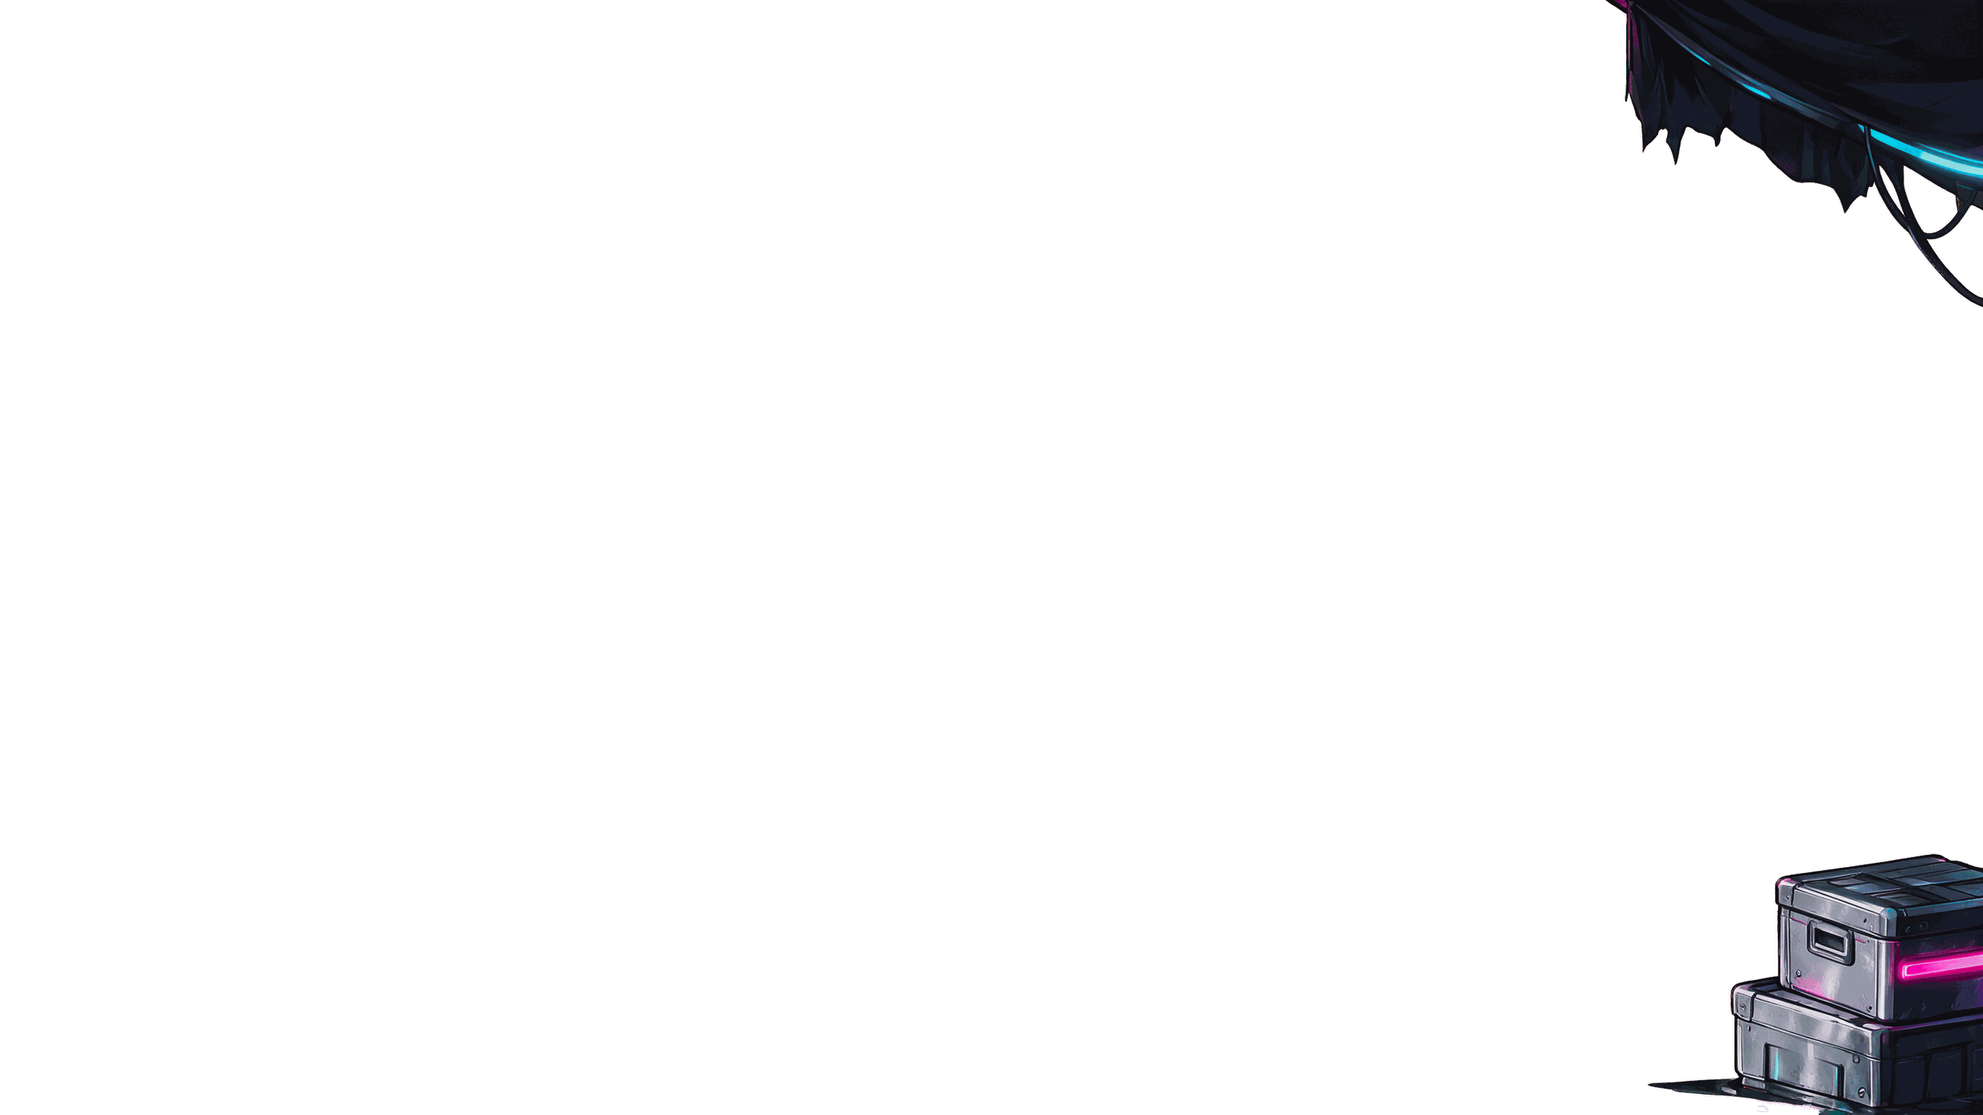
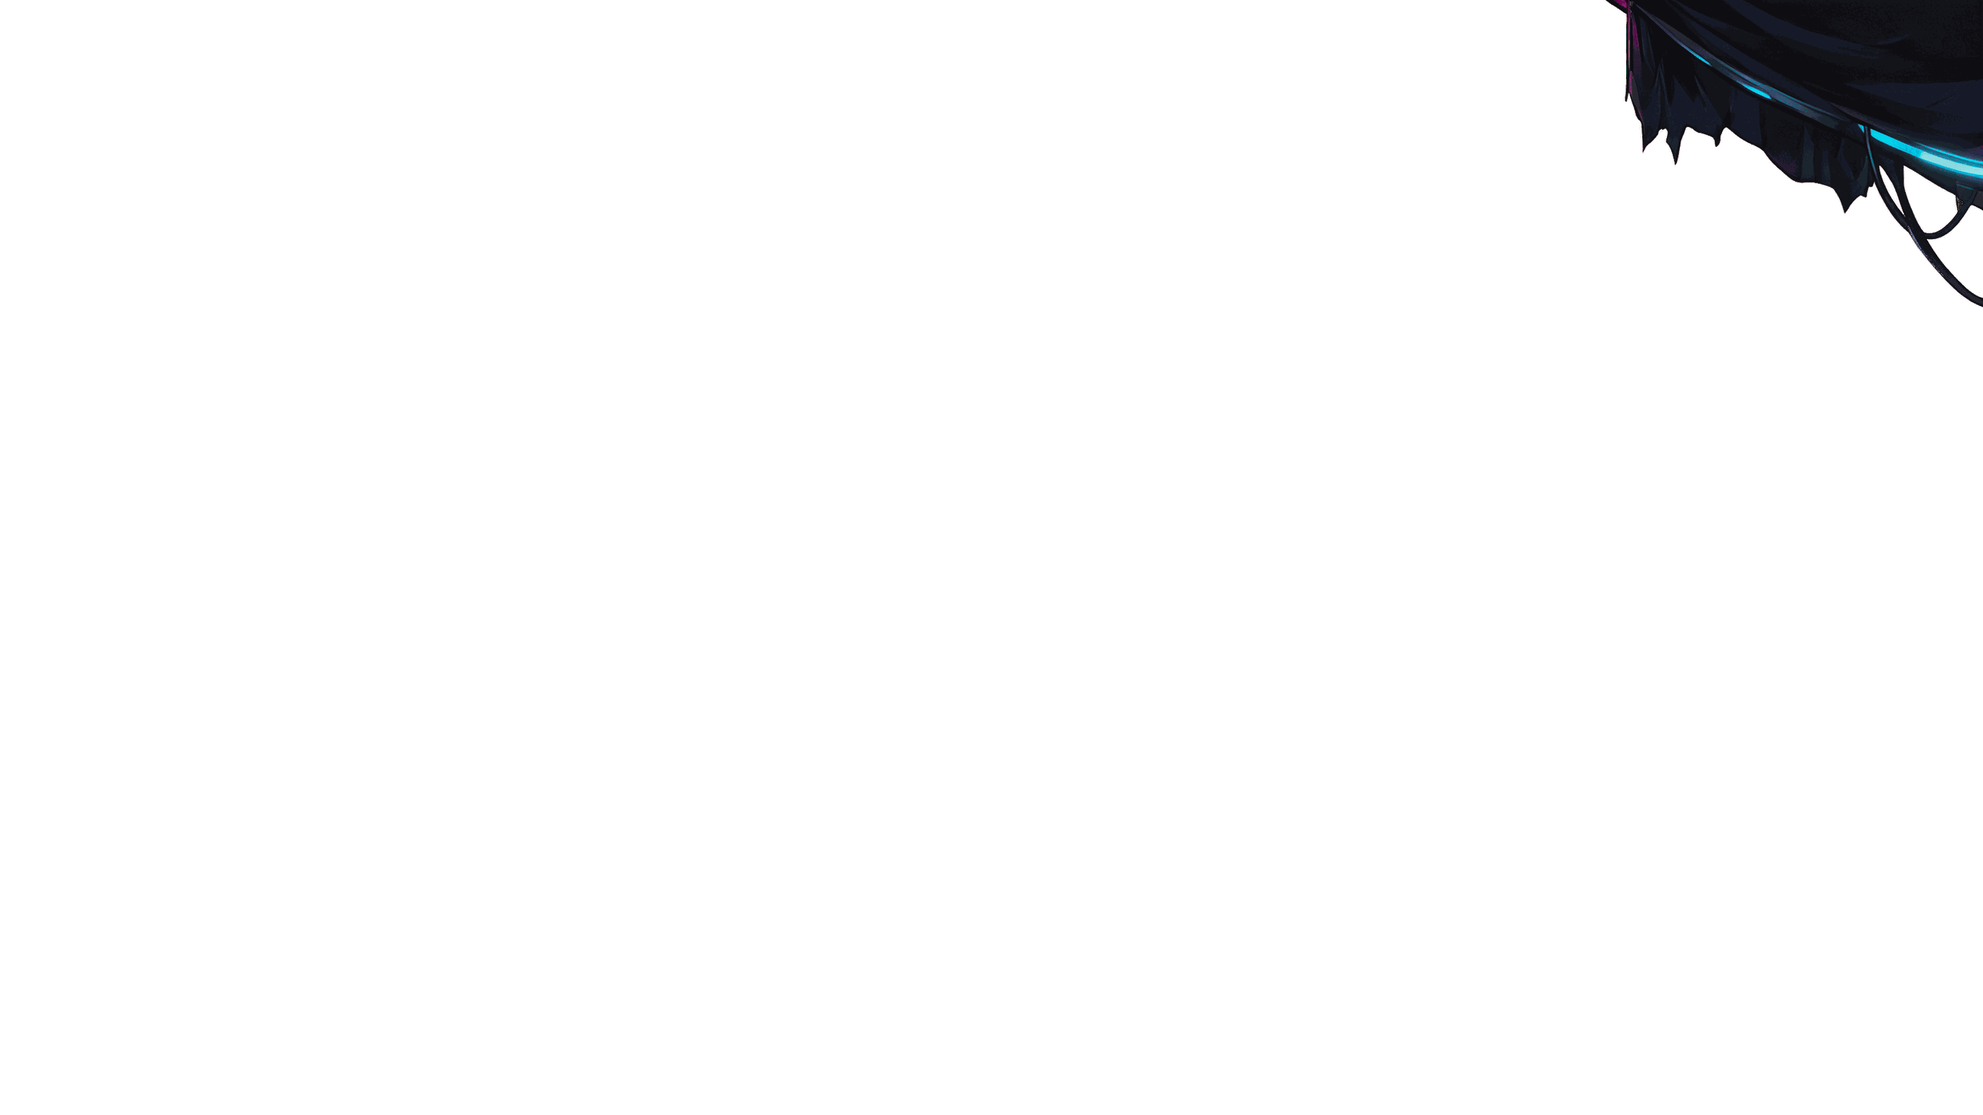
The arcade: a room off the neon street's east end
The approved painting (candidate C of four) is a new room, the arcade: a
neon hall with three game cabinets along its back wall under a blank
score board, one screen wide and built to widen east later. Its doorway,
under a joystick sign with no letters, is a detail edit of the street's
east screen where the street bends away; the east overlay's crates, which
stood in front of it, are taken out. Each file has its provenance line.

The room data has the arcade's floor, its entrance back to the street,
three cabinet spots and a cap of 40, and the street's pavement up to the
new doorway. Until a cabinet's game is live its screen is switched off
and reads "Hatching Soon", and an owl standing at it is told the same;
no game is live yet. The arcade has a mood of its own: neon, no rain.

A unit test ties the cabinets to the room, and a browser test walks in
from the street, along the cabinets and back out, on a computer and a
phone.

Claude-Session: https://claude.ai/code/session_01GwxsLoM2md4sGXGmm1SY7i

Changed region(s): [[0.8438, 0.7467, 1.0, 1.0]]

diff --git a/packages/shared/rooms/index.ts b/packages/shared/rooms/index.ts
@@ -21,6 +21,10 @@ export { STREET_DOORS, STREET_ROOM } from '../src/homes';
  * lobby's west end leads to. It is two screens wide, its painting the east screen, where the lane
  * from the lobby comes in. Six nest doors stand along it, each into one owl's nest: a room of its
  * own, made from NEST_ROOM. Neither has hiding spots.
+ *
+ * The arcade is one screen off the market street's east end, where the street bends away: a neon
+ * hall with three game cabinets along its back wall under a blank score board. It is built to
+ * widen east later, as the market was. It has no hiding spots.
  */
 export const CLOSED_SIGNS = ['Not Yet Fledged', 'Closed for Molting', 'Pardon Our Feathers', 'Hatching Soon'] as const;
 
@@ -250,7 +254,8 @@ export const ROOMS: Record<string, RoomDef> = {
     walkable: [
       [
         // The street, from the curb in front of the stalls down, past the neon stage to where it bends
-        // away; the doorway's threshold on the left.
+        // away, and up the pavement on the right to the arcade's doorway; the doorway's threshold on
+        // the left.
         { x: 0, y: 690 },
         { x: 1500, y: 690 },
         { x: 1520, y: 705 },
@@ -264,20 +269,22 @@ export const ROOMS: Record<string, RoomDef> = {
         { x: 2770, y: 712 },
         { x: 2950, y: 705 },
         { x: 3040, y: 662 },
-        { x: 3110, y: 652 },
-        { x: 3130, y: 690 },
-        { x: 3045, y: 720 },
-        { x: 3030, y: 760 },
-        { x: 3025, y: 888 },
+        { x: 3080, y: 678 },
+        { x: 3100, y: 690 },
+        { x: 3155, y: 690 },
+        { x: 3200, y: 708 },
+        { x: 3200, y: 888 },
         { x: 280, y: 888 },
         { x: 250, y: 830 },
         { x: 170, y: 760 },
         { x: 0, y: 760 },
       ],
     ],
-    spawns: { 'default': { x: 330, y: 740 } },
+    spawns: { 'default': { x: 330, y: 740 }, 'from-arcade': { x: 3090, y: 770 } },
     doors: [
       { id: 'to-hub', rect: { x: 0, y: 600, w: 120, h: 220 }, to: { room: 'hub', spawn: 'from-market' }, marker: { x: 70, y: 580 } },
+      // The arcade's doorway on the pavement where the street bends away, under its joystick sign.
+      { id: 'to-arcade', rect: { x: 3098, y: 678, w: 60, h: 36 }, to: { room: 'arcade', spawn: 'from-market' }, marker: { x: 3126, y: 640 } },
       { id: 'shop', rect: { x: 960, y: 690, w: 170, h: 80 }, marker: { x: 1080, y: 560 } },
       // Beneath the giant robot owl: standing here lets a ticket-holder vote for this realm.
       { id: 'idol', rect: { x: 1150, y: 710, w: 220, h: 100 }, marker: { x: 1260, y: 760 } },
@@ -299,6 +306,40 @@ export const ROOMS: Record<string, RoomDef> = {
       { x: 2500, y: 860 },
       { x: 2700, y: 800 },
       { x: 2900, y: 860 },
+    ],
+  },
+  arcade: {
+    id: 'arcade',
+    size: { w: ROOM_W, h: ROOM_H },
+    background: 'arcade',
+    mood: 'arcade',
+    walkable: [
+      [
+        // The wet tiled floor: out through the open entrance on the west onto the street beyond its
+        // threshold, along the foot of the back wall, in front of the three cabinets, and into the
+        // hall that carries on past the chrome pillar on the east.
+        { x: 0, y: 690 },
+        { x: 195, y: 690 },
+        { x: 205, y: 712 },
+        { x: 445, y: 714 },
+        { x: 445, y: 750 },
+        { x: 1170, y: 750 },
+        { x: 1170, y: 716 },
+        { x: 1320, y: 716 },
+        { x: 1330, y: 690 },
+        { x: 1600, y: 690 },
+        { x: 1600, y: 888 },
+        { x: 0, y: 888 },
+      ],
+    ],
+    spawns: { 'default': { x: 300, y: 800 }, 'from-market': { x: 300, y: 800 } },
+    doors: [
+      // The open entrance, out onto the street past its threshold.
+      { id: 'to-market', rect: { x: 0, y: 690, w: 150, h: 70 }, to: { room: 'market', spawn: 'from-arcade' }, marker: { x: 110, y: 650 } },
+      // The three cabinets along the back wall, each spot in front of its cabinet.
+      { id: 'cabinet-crossing', rect: { x: 457, y: 750, w: 140, h: 60 }, marker: { x: 527, y: 412 } },
+      { id: 'cabinet-flight', rect: { x: 733, y: 750, w: 140, h: 60 }, marker: { x: 803, y: 412 } },
+      { id: 'cabinet-sling', rect: { x: 1016, y: 750, w: 140, h: 60 }, marker: { x: 1086, y: 412 } },
     ],
   },
   lobby: {

diff --git a/apps/park/src/game/ambience.ts b/apps/park/src/game/ambience.ts
@@ -146,7 +146,7 @@ export function addSetPieces(scene: Phaser.Scene, room: RoomDef, onIdolTap?: (po
       const key = `sign-${door.closedSign.toLowerCase().replace(/\s+/g, '-')}`;
       piece(scene, m.x, m.y, scene.textures.exists(key) ? key : 'sign-hatching-soon').setDepth(m.y);
     } else if (door.to) {
-      const tint = door.to.room === 'market' ? 0xff2aa1 : door.to.room === 'grove' ? 0xffb347 : 0xc9a227;
+      const tint = door.to.room === 'market' ? 0xff2aa1 : door.to.room === 'arcade' ? 0x00e5ff : door.to.room === 'grove' ? 0xffb347 : 0xc9a227;
       const glow = scene.add.image(m.x, m.y, 'fx-glow').setTint(tint).setAlpha(0.28).setScale(1.6).setDepth(1).setBlendMode(Phaser.BlendModes.ADD);
       scene.tweens.add({ targets: glow, alpha: 0.5, scale: 1.9, duration: 1800, yoyo: true, repeat: -1, ease: 'Sine.easeInOut' });
     } else if (door.id === 'shop' || door.id === 'booth') {
@@ -235,6 +235,27 @@ export function addAmbience(scene: Phaser.Scene, room: RoomDef): Ambience {
     drifting.push(rain);
     haze = scene.add.rectangle(w / 2, h / 2, w, h, 0xff2aa1, 0.05).setDepth(h + 5).setBlendMode(Phaser.BlendModes.ADD);
     scene.tweens.add({ targets: haze, fillAlpha: 0.1, duration: 1400, yoyo: true, repeat: -1, ease: 'Sine.easeInOut' });
+  } else if (room.mood === 'arcade') {
+    // Indoors off the neon street: no rain, a slow drift of neon motes in the cabinets' light.
+    const motes = scene.add
+      .particles(0, 0, 'fx-dot', {
+        x: { min: 0, max: w },
+        y: { min: floorTop - 420, max: h - 40 },
+        lifespan: { min: 5000, max: 9000 },
+        speedX: { min: -8, max: 8 },
+        speedY: { min: -14, max: -4 },
+        scale: { start: 0.3, end: 0.05 },
+        alpha: { start: 0, end: 0.7 },
+        tint: [0xff2aa1, 0x00e5ff, 0x8a4dff],
+        blendMode: Phaser.BlendModes.ADD,
+        frequency: 220 / k,
+        quantity: 1,
+        maxAliveParticles: Math.round(40 * k),
+      })
+      .setDepth(h + 10);
+    drifting.push(motes);
+    haze = scene.add.rectangle(w / 2, h / 2, w, h, 0xff2aa1, 0.03).setDepth(h + 5).setBlendMode(Phaser.BlendModes.ADD);
+    scene.tweens.add({ targets: haze, fillAlpha: 0.06, duration: 1800, yoyo: true, repeat: -1, ease: 'Sine.easeInOut' });
   } else {
     const gold = scene.add
       .particles(0, 0, 'fx-dot', {
@@ -267,7 +288,7 @@ export function addAmbience(scene: Phaser.Scene, room: RoomDef): Ambience {
         else e.start();
         e.setVisible(!calm);
       }
-      // The neon street's pink haze keeps its glow but stops pulsing.
+      // The neon pink haze keeps its glow but stops pulsing.
       if (haze) {
         for (const t of scene.tweens.getTweensOf(haze)) {
           if (calm) t.pause();

diff --git a/apps/park/src/game/RoomScene.ts b/apps/park/src/game/RoomScene.ts
@@ -1,5 +1,6 @@
 import Phaser from 'phaser';
 import {
+  CABINET_OFF,
   EMOTE_IDS,
   KIND_RULES,
   MAX_ACTIVE_QUESTS,
@@ -16,6 +17,7 @@ import {
   RARITY_NAMES,
   STREET_ROOM,
   backgroundTiles,
+  cabinetAt,
   distance,
   filterOwnedWear,
   findSpawn,
@@ -66,6 +68,7 @@ import type { Keys } from '../ui/keyboard';
 import { gateCard, gateRefusal } from '../ui/tickets';
 import { ActivityLayer } from './activities';
 import { addAmbience, addSetPieces, ensureFxTextures, type SetPieces } from './ambience';
+import { addCabinets } from './arcade';
 import { loadArt, releaseArt, roomArtKeys } from './art';
 import { roomScaleCap } from './artFiles';
 import { takesDoorway } from './doors';
@@ -124,7 +127,7 @@ const HINT_INSETS = { top: 64, bottom: 84, side: 30 };
 const TOUCH_HINT_BOTTOM = 190;
 const TOUCH_SCREEN = globalThis.matchMedia?.('(pointer: coarse)').matches ?? false;
 /** Hint chip colours: doorways glow like the realm they lead to, spots are gold. */
-const DOOR_TINTS: Record<string, string> = { market: '#FF2AA1', grove: '#FFB347' };
+const DOOR_TINTS: Record<string, string> = { market: '#FF2AA1', arcade: '#00E5FF', grove: '#FFB347' };
 /** Fresh walks the held keys may plan without a change of keys (sliding round corners), so a nook never loops. */
 const KEY_TURNS = 8;
 /** Never wait longer than this for the park day to turn (timers past ~24 days overflow). */
@@ -305,6 +308,7 @@ export class RoomScene extends Phaser.Scene {
     // hairline of the clear colour shows at a join while the camera scrolls.
     for (const t of backgroundTiles(room)) this.add.image(t.x, t.y, t.key).setOrigin(0).setDisplaySize(ROOM_W + 1, ROOM_H + 1).setDepth(-1);
     this.pieces = addSetPieces(this, room, (pointer, event) => this.onIdolTap(pointer, event));
+    addCabinets(this, room);
     // Calm motion (a setting) stills the drifting particles, at once and in every room after.
     const ambience = addAmbience(this, room);
     const settings = this.registry.get('settings') as SettingsStore | undefined;
@@ -1106,6 +1110,7 @@ export class RoomScene extends Phaser.Scene {
       }
       if (this.interactions[door.id]) spots.push(door.id);
       if (door.closedSign && walkFinished) this.hud.toast(door.closedSign);
+      if (walkFinished && cabinetAt(this.room.id, door.id)?.live === false) this.hud.toast(CABINET_OFF);
     }
     this.actions = this.actionsHere(spots);
     this.hud.setActions(this.actions.map(({ id, label }) => ({ id, label })));

diff --git a/apps/park/e2e/arcade.spec.ts b/apps/park/e2e/arcade.spec.ts
@@ -1,0 +1,33 @@
+import { expect, test, type Page } from '@playwright/test';
+import { openPark, state, walkToDoor } from './helpers';
+
+async function inRoom(page: Page, room: string): Promise<void> {
+  await expect.poll(async () => (await state(page)).room, { timeout: 20_000 }).toBe(room);
+}
+
+// Two room changes and a walk along the three cabinets.
+test.describe.configure({ timeout: 90_000 });
+
+test.describe('the arcade (this device)', () => {
+  test('in by the doorway at the neon street’s east end, every cabinet still hatching, and back out', async ({ page }) => {
+    // On the pavement in front of the doorway, where an owl stands when it comes back out.
+    await openPark(page, { room: 'market', spawn: 'from-arcade', collector: 'e2e-arcade' });
+    await walkToDoor(page, 'to-arcade');
+    await inRoom(page, 'arcade');
+
+    // No game is live yet: standing at a cabinet says so, and offers nothing to press.
+    for (const cabinet of ['cabinet-crossing', 'cabinet-flight', 'cabinet-sling']) {
+      await walkToDoor(page, cabinet);
+      await expect.poll(async () => (await state(page)).walking, { timeout: 15_000 }).toBe(false);
+      await expect(page.locator('.toast').filter({ hasText: 'Hatching Soon' }).last()).toBeVisible();
+      await expect(page.locator('[data-action]')).toHaveCount(0);
+    }
+
+    // Back past the cabinets to the entrance, and out: on the pavement in front of the doorway.
+    await page.evaluate(() => window.owlPark.walkTo(300, 820));
+    await expect.poll(async () => (await state(page)).walking, { timeout: 15_000 }).toBe(false);
+    await walkToDoor(page, 'to-market');
+    await inRoom(page, 'market');
+    expect((await state(page)).pos.x).toBeGreaterThan(3000);
+  });
+});

diff --git a/apps/park/src/game/arcade.ts b/apps/park/src/game/arcade.ts
@@ -1,0 +1,36 @@
+import Phaser from 'phaser';
+import { ARCADE_ROOM, CABINETS, CABINET_OFF, type RoomDef } from '@owl-park/shared';
+
+/** Each cabinet's screen on the arcade's painting (room pixels), and its neon colours. */
+const SCREENS: Readonly<Record<string, { x: number; y: number; w: number; h: number; ink: string; glow: string }>> = {
+  'cabinet-crossing': { x: 494, y: 497, w: 102, h: 73, ink: '#FF8AD0', glow: '#FF2AA1' },
+  'cabinet-flight': { x: 758, y: 500, w: 97, h: 70, ink: '#8AF4FF', glow: '#00E5FF' },
+  'cabinet-sling': { x: 1022, y: 497, w: 103, h: 73, ink: '#CDB0FF', glow: '#8A4DFF' },
+};
+
+/**
+ * The arcade's cabinets as the park draws them over the painting: a cabinet whose game is not live
+ * yet has its screen switched off, dark and reading "Hatching Soon" in its own neon colour. The
+ * screens are part of the back wall, so every owl walks in front of them.
+ */
+export function addCabinets(scene: Phaser.Scene, room: RoomDef): void {
+  if (room.id !== ARCADE_ROOM) return;
+  for (const cabinet of CABINETS) {
+    const s = SCREENS[cabinet.spot];
+    if (!s || cabinet.live) continue;
+    scene.add.graphics().fillStyle(0x05060d, 0.88).fillRoundedRect(s.x, s.y, s.w, s.h, 10).setDepth(2);
+    scene.add
+      .text(s.x + s.w / 2, s.y + s.h / 2, CABINET_OFF.replace(' ', '\n'), {
+        fontFamily: 'system-ui, -apple-system, "Segoe UI", Roboto, sans-serif',
+        fontSize: '16px',
+        fontStyle: '700',
+        color: s.ink,
+        align: 'center',
+        lineSpacing: 2,
+        resolution: 2,
+      })
+      .setOrigin(0.5)
+      .setShadow(0, 0, s.glow, 10, false, true)
+      .setDepth(3);
+  }
+}

diff --git a/packages/shared/src/arcade.ts b/packages/shared/src/arcade.ts
@@ -1,0 +1,35 @@
+/**
+ * The arcade: a room of its own off the market street's east end, with three game cabinets along
+ * its back wall. Each cabinet is a spot in the room data (a door without `to`) and plays one game.
+ * A cabinet whose game is not live yet shows an unlit screen reading "Hatching Soon" (one of the
+ * approved closed-sign phrases), and standing at it says so; the games and their names come later.
+ */
+import { CLOSED_SIGNS } from '../rooms';
+
+export const ARCADE_ROOM = 'arcade';
+
+/** The three games, named for what you do in them (visitor-facing names come later). */
+export type ArcadeGame = 'crossing' | 'flight' | 'sling';
+
+export interface CabinetDef {
+  /** The cabinet's spot in the arcade's room data. */
+  spot: string;
+  game: ArcadeGame;
+  /** Whether its game is playable; a cabinet that is not shows "Hatching Soon". */
+  live: boolean;
+}
+
+/** The cabinets from west to east: crossing the lanes, the night flight, the slingshot. */
+export const CABINETS: readonly CabinetDef[] = [
+  { spot: 'cabinet-crossing', game: 'crossing', live: false },
+  { spot: 'cabinet-flight', game: 'flight', live: false },
+  { spot: 'cabinet-sling', game: 'sling', live: false },
+];
+
+/** What a cabinet whose game is not live yet says, on its screen and to an owl standing at it. */
+export const CABINET_OFF: (typeof CLOSED_SIGNS)[number] = 'Hatching Soon';
+
+/** The cabinet at this spot of the arcade, if there is one. */
+export function cabinetAt(room: string, spot: string): CabinetDef | undefined {
+  return room === ARCADE_ROOM ? CABINETS.find((c) => c.spot === spot) : undefined;
+}

diff --git a/packages/shared/src/arcade.test.ts b/packages/shared/src/arcade.test.ts
@@ -1,0 +1,33 @@
+import { describe, expect, it } from 'vitest';
+import { ARCADE_ROOM, CABINETS, CABINET_OFF, cabinetAt } from './arcade';
+import { CLOSED_SIGNS, ROOMS } from '../rooms';
+
+describe('the arcade', () => {
+  const room = ROOMS[ARCADE_ROOM]!;
+
+  it('has a spot in its room data for every cabinet, and no other spot', () => {
+    const spots = room.doors.filter((d) => !d.to).map((d) => d.id);
+    expect(spots.sort()).toEqual(CABINETS.map((c) => c.spot).sort());
+  });
+
+  it('plays a different game at each cabinet', () => {
+    expect(new Set(CABINETS.map((c) => c.game)).size).toBe(CABINETS.length);
+  });
+
+  it('says only an approved phrase on a cabinet that is off', () => {
+    expect(CLOSED_SIGNS).toContain(CABINET_OFF);
+  });
+
+  it('is reached from the market street and leads back to it', () => {
+    const into = ROOMS['market']!.doors.find((d) => d.to?.room === ARCADE_ROOM);
+    const out = room.doors.find((d) => d.to?.room === 'market');
+    expect(into && Object.hasOwn(room.spawns, into.to!.spawn)).toBe(true);
+    expect(out && Object.hasOwn(ROOMS['market']!.spawns, out.to!.spawn)).toBe(true);
+  });
+
+  it('finds a cabinet only by its spot in the arcade', () => {
+    expect(cabinetAt(ARCADE_ROOM, 'cabinet-flight')?.game).toBe('flight');
+    expect(cabinetAt('market', 'cabinet-flight')).toBeUndefined();
+    expect(cabinetAt(ARCADE_ROOM, 'to-market')).toBeUndefined();
+  });
+});

diff --git a/apps/park/playwright.config.ts b/apps/park/playwright.config.ts
@@ -16,8 +16,8 @@ export default defineConfig({
   },
   projects: [
     // Collectibles run on the desktop project only: the phone project repeats the park suite's layout checks.
-    { name: 'desktop', testMatch: /(park|collect|lobby|activities|nests)\.spec\.ts/, use: { ...devices['Desktop Chrome'], viewport: { width: 1280, height: 800 } } },
-    { name: 'phone', testMatch: /(park|lobby|nests)\.spec\.ts/, use: { ...devices['Pixel 7'], browserName: 'chromium' } },
+    { name: 'desktop', testMatch: /(park|collect|lobby|activities|nests|arcade)\.spec\.ts/, use: { ...devices['Desktop Chrome'], viewport: { width: 1280, height: 800 } } },
+    { name: 'phone', testMatch: /(park|lobby|nests|arcade)\.spec\.ts/, use: { ...devices['Pixel 7'], browserName: 'chromium' } },
     // The room server suite: the built client served by the Worker (wrangler dev), real WebSockets.
     // Two browser contexts, real sockets, two walks and a room change per test: on a loaded CI runner
     // that chain runs close to a minute, so this project gets a longer per-test budget.

diff --git a/apps/edge/src/rooms.ts b/apps/edge/src/rooms.ts
@@ -17,7 +17,7 @@ export function isRoomId(id: string): boolean {
 /** Owls in one nest at once, its owner aside: the owner always gets into its own nest. */
 export const NEST_CAP = 12;
 
-const DEFAULT_CAPS: Record<string, number> = { lobby: 80, hub: 80, grove: 40, market: 40, homes: 40, nest: NEST_CAP };
+const DEFAULT_CAPS: Record<string, number> = { lobby: 80, hub: 80, grove: 40, market: 40, arcade: 40, homes: 40, nest: NEST_CAP };
 
 /** A room's cap from ROOM_CAPS or the defaults. Every nest shares the `nest` entry. */
 export function roomCap(env: Env, roomId: string): number {

diff --git a/apps/park/src/game/art.ts b/apps/park/src/game/art.ts
@@ -37,6 +37,8 @@ export const ART: Record<string, ArtSpec> = {
   'homes-west': { w: ROOM_W, h: ROOM_H, kind: 'room' },
   homes: { w: ROOM_W, h: ROOM_H, kind: 'room' },
   nest: { w: ROOM_W, h: ROOM_H, kind: 'room' },
+  // The arcade, one screen off the market street's east end.
+  arcade: { w: ROOM_W, h: ROOM_H, kind: 'room' },
   guardian: { w: 720, h: 820, kind: 'piece' },
   'robot-owl': { w: 900, h: 900, kind: 'piece' },
   // Nest furniture (`decor-<id>`), drawn with its bottom centre on its spot in a nest. The wall

diff --git a/packages/shared/src/room.ts b/packages/shared/src/room.ts
@@ -42,8 +42,8 @@ export interface RoomDef {
    * walk from the default spawn that never crosses an exit (unit-tested in rooms.test.ts).
    */
   spots?: Vec2[];
-  /** Ambient mood used by the scene for lighting and particles. */
-  mood: 'hub' | 'dusk' | 'neon';
+  /** Ambient mood used by the scene for lighting and particles (`arcade`: neon indoors, no rain). */
+  mood: 'hub' | 'dusk' | 'neon' | 'arcade';
 }
 
 /** One ROOM_W x ROOM_H piece of a room's art, at its top-left corner in room pixels. */

diff --git a/packages/shared/src/index.ts b/packages/shared/src/index.ts
@@ -21,3 +21,4 @@ export * from './roomActivities';
 export * from './homes';
 export * from './nestbook';
 export * from './feedback';
+export * from './arcade';
